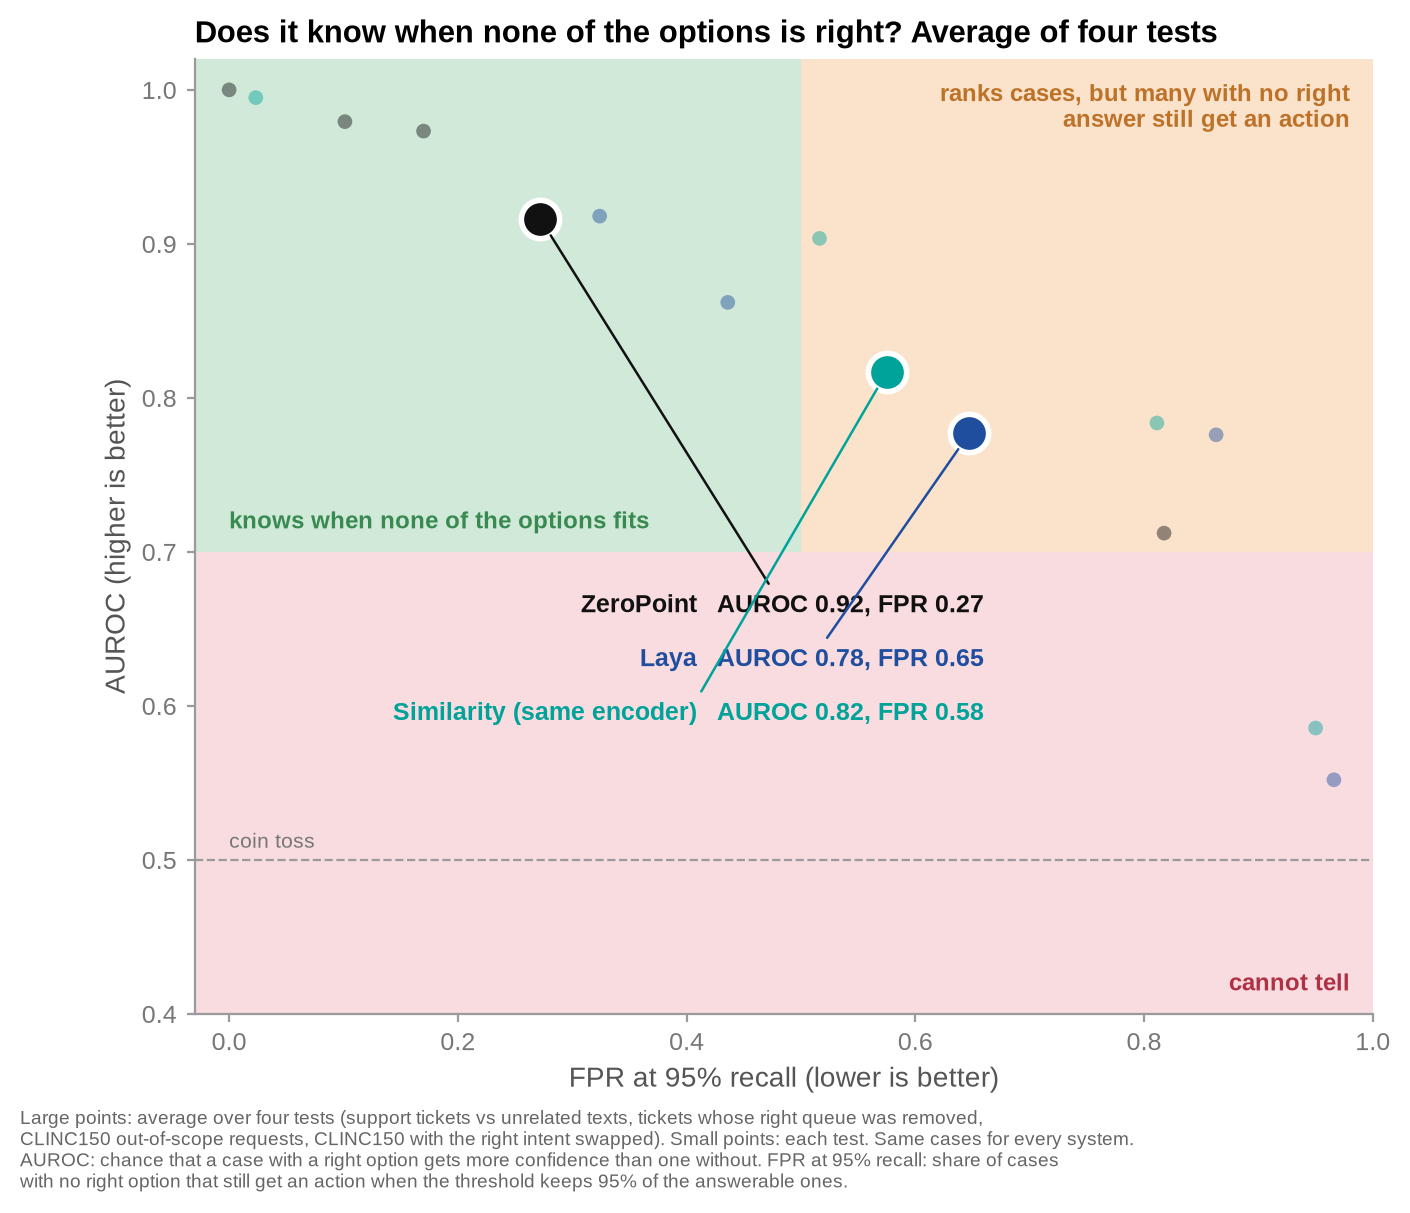
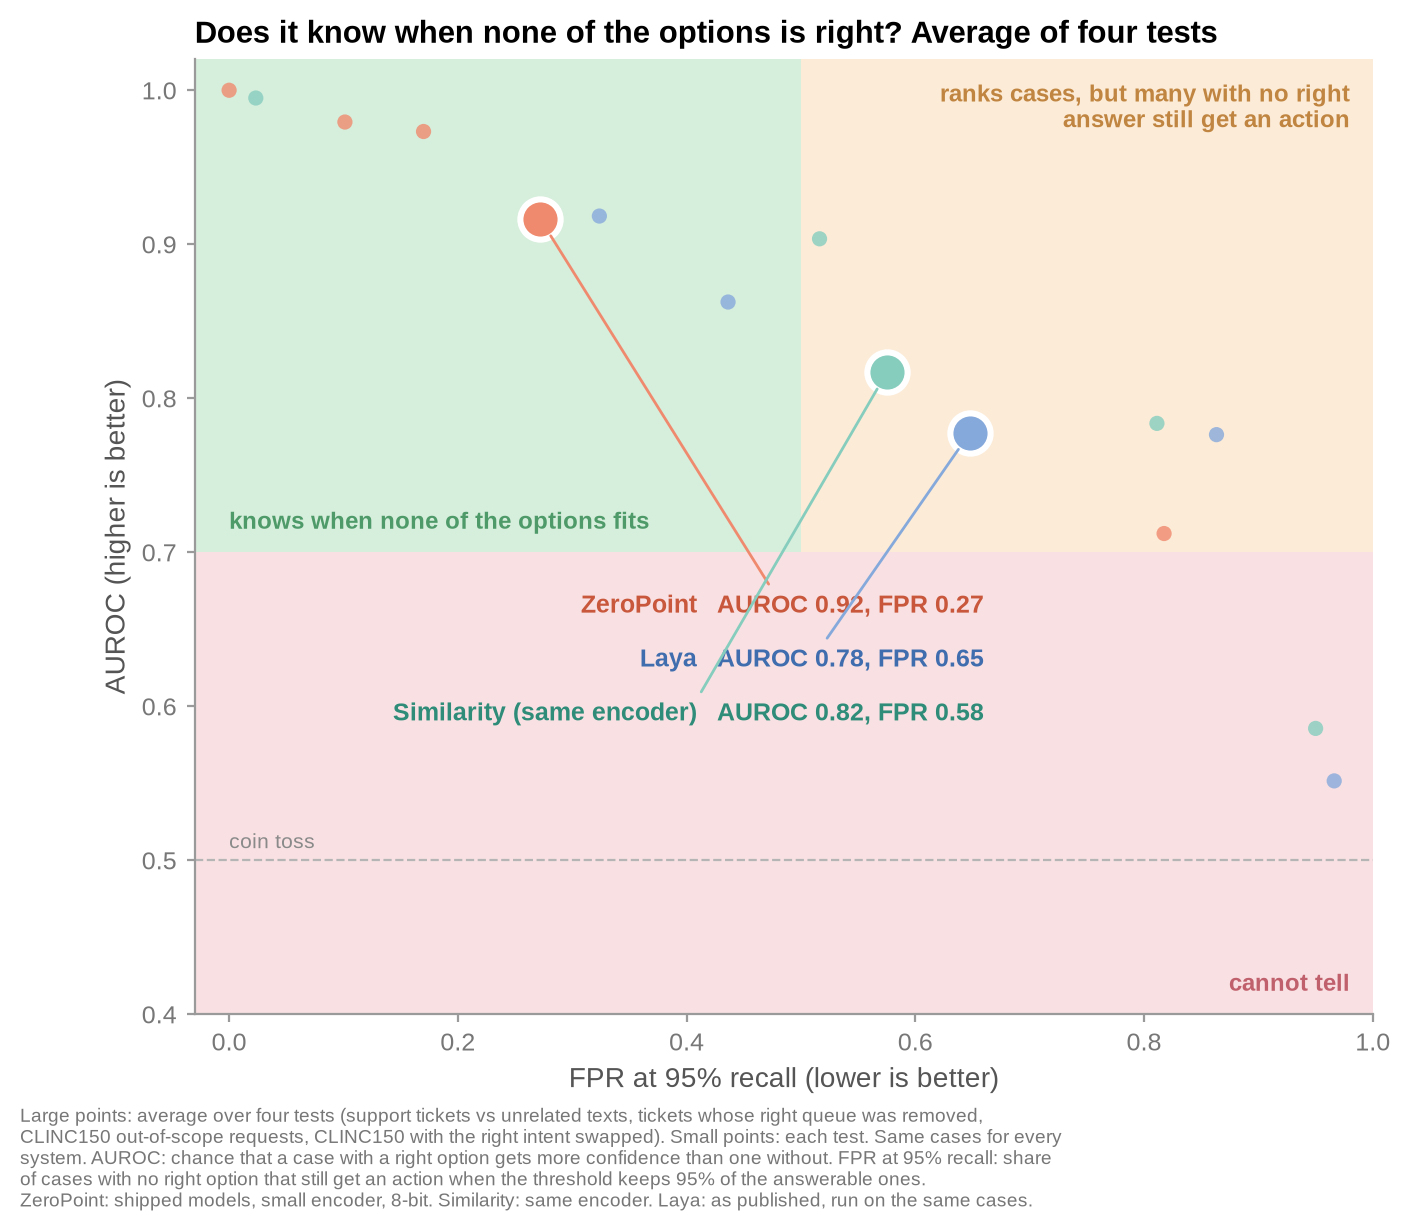
README: pastel none-detection chart in Accuracy, remove nine-dataset chart, fix diagram alt text (#12)

diff --git a/README.md b/README.md
@@ -114,7 +114,7 @@ slower).
 
 <br>
 
-<img src="assets/how-it-works.png" width="100%" alt="Every option is an energy well and none is the ground, fixed at zero. A billing text lands in the billing well; a text with no matching well stays on the ground; a text outside the data is pushed to none as the vacuum deepens beyond the edge. Below, ZeroPoint answers billing, none, none, while softmax answers billing, refund and account.">
+<img src="assets/how-it-works.png" width="100%" alt="Which team should handle the message: Can I change my delivery address? The options Billing and Technical are energy wells; None of these is the flat ground at energy zero. The text lands on the ground, so ZeroPoint answers none with 0.96, while softmax splits it between billing 0.55 and technical 0.45.">
 
 ZeroPoint is an energy-based model ([LeCun et al., 2006](http://yann.lecun.com/exdb/publis/orig/lecun-06.pdf)).
 Instead of scoring options against each other, it gives every option an energy and compares it with a
@@ -209,6 +209,10 @@ precision). Details in [BENCHMARK.md](BENCHMARK.md).
 
 How often it tells cases with a right option apart from cases without one (AUROC: 1 is perfect, 0.5 a coin
 toss), on texts it never saw. Small encoder, default settings:
+
+<img src="assets/none_auroc_vs_fpr95.png" width="100%" alt="AUROC against FPR at 95% recall, average of four tests. ZeroPoint sits in the green zone (AUROC 0.92, FPR 0.27); similarity with the same encoder (0.82, 0.58) and Laya (0.78, 0.65) sit in the orange zone, where many cases with no right answer still get an action.">
+
+<br>
 
 | test | ZeroPoint | similarity, same encoder |
 |---|---|---|
